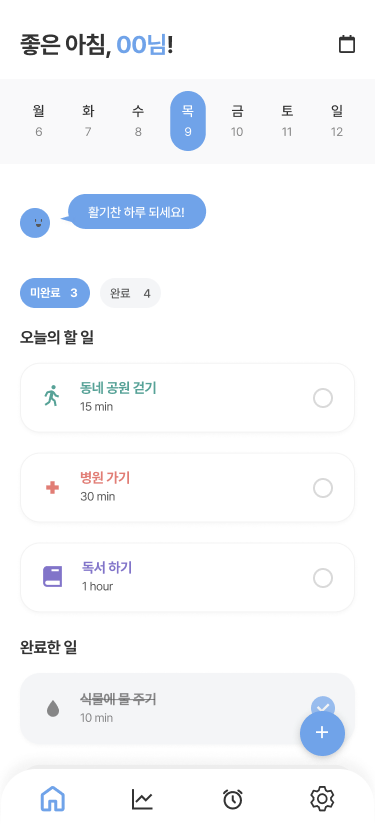
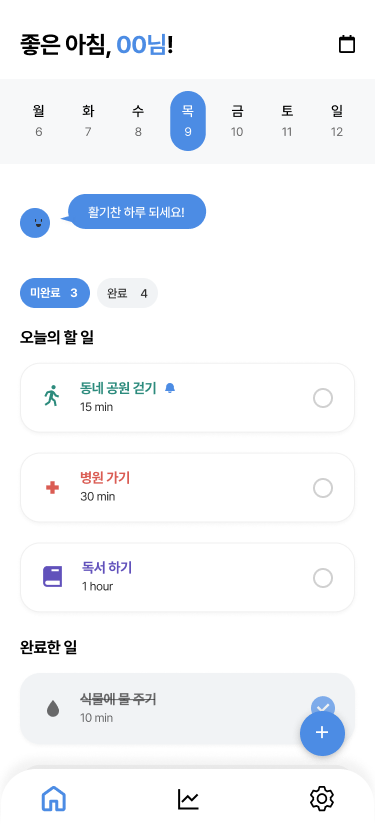
docs: README 업데이트 및 '통계' 페이지 스크린샷 첨부

diff --git a/README.md b/README.md
@@ -28,6 +28,7 @@
 ## 미리 보기(스크린샷)
 ![앱 메인 화면 스크린샷](./public/images/screenshot-main_v2.png)
 ![앱 할일 추가 스크린샷](./public/images/screenshot-taskadd.png)
+![앱 통계 스크린샷](./public/images/screenshot-chart.png)
 
 본 프로젝트는 하단의 앱 사례들에서 영감을 얻었습니다.
 첨부 순서대로 레퍼런스-1, 레퍼런스-2에 해당합니다.
@@ -46,15 +47,14 @@
 ![참고 레퍼런스-2](./public/images/reference_2.png)
 
 ## 업데이트 내역
-[메인 화면 페이지]
-UI 전반 및 컬러 시스템 개선
-1. 메인 컬러를 보다 안정적인 채도로 조정했습니다.
-2. 카드 스타일을 배경색에서 보더 + 쉐도우 방식으로 변경했습니다.
-3. 할 일 추가 버튼 분리, 미완료/완료 아이콘 교체, 달력 아이콘 추가 등 세부 UI를 다듬었습니다.
+**['통계' 페이지] 신규 추가**
+- 주간/월간 총 달성률 차트를 디자인했습니다.
+- 월간 차트는 가로 스크롤로 총 12개월을 확인할 수 있습니다.
+- 주간 완료한 일 TOP 3를 표시합니다. 월간의 경우 텍스트와 데이터가 주간 -> 월간으로 변경됩니다.
 
-['할 일 추가' 페이지] 
-할 일 추가 버튼 클릭 시 나타나는 모달 UI를 디자인했습니다.
-소요 시간 프리셋 선택 및 직접 입력, 아이콘/색상 커스텀, 알람 설정 기능을 포함합니다.
+**[메인 화면 페이지] UI 개선**
+- 메인 컬러 채도 조정: 보다 선명한 블루 계열로 변경했습니다.
+- 할 일 항목에 알람 설정 여부를 나타내는 아이콘을 추가했습니다.
 
 ## 개발 기간
 - 2026년 4월 ~ 진행 중
